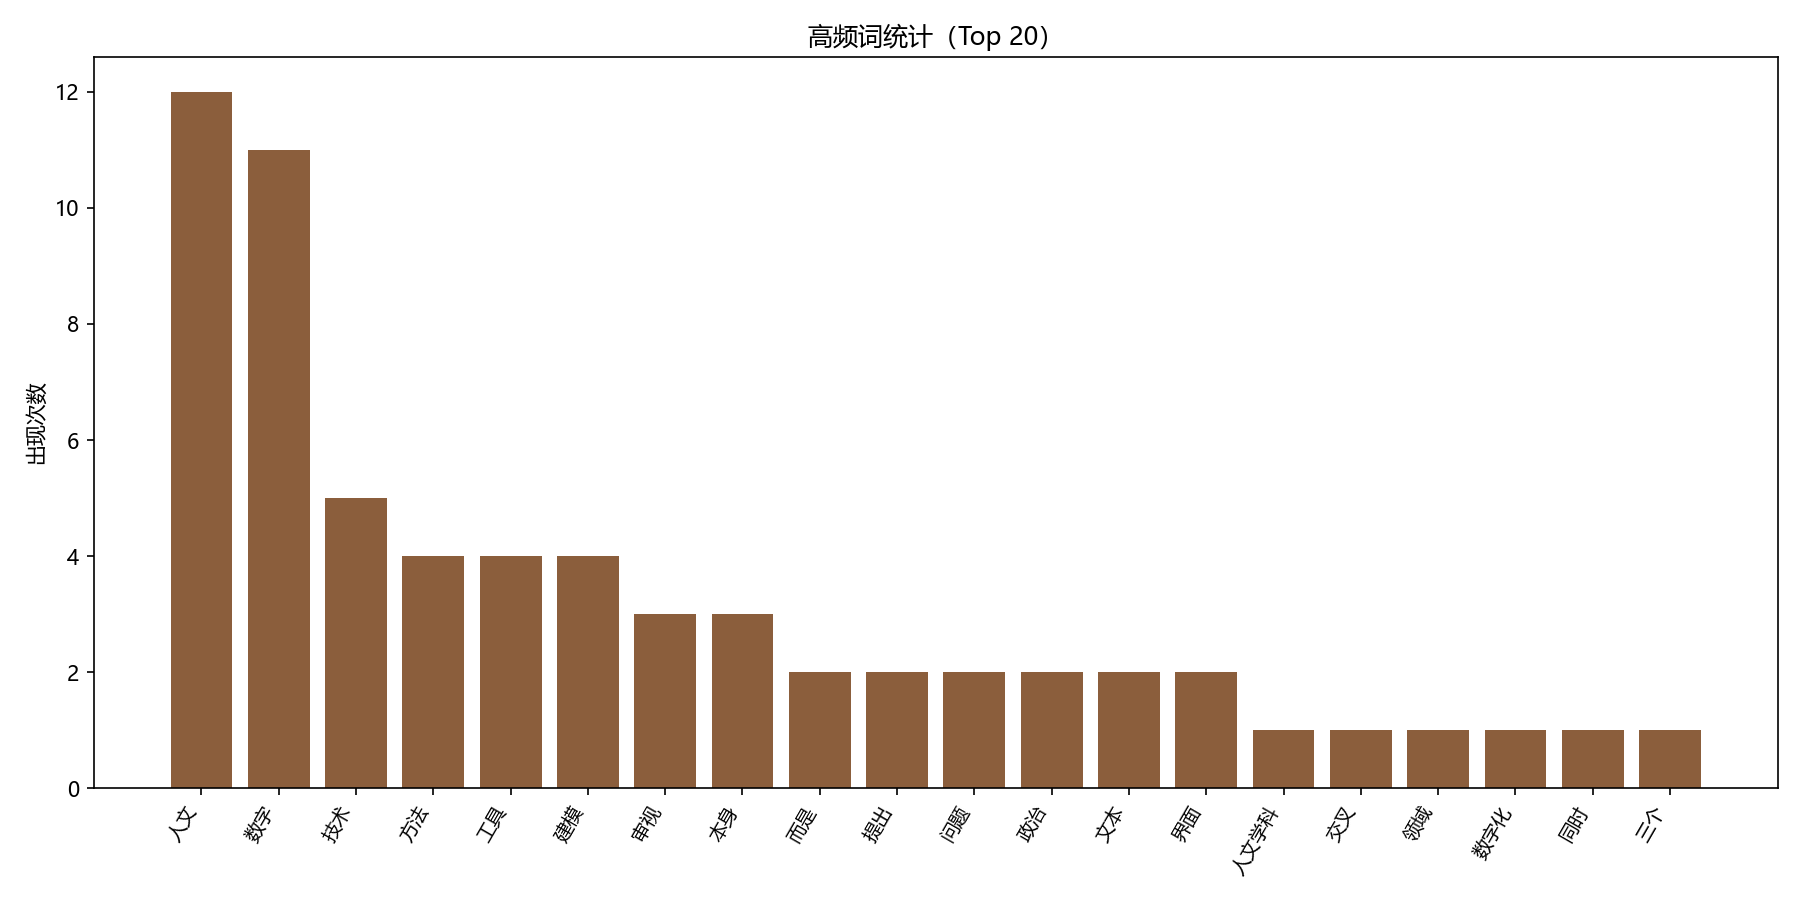
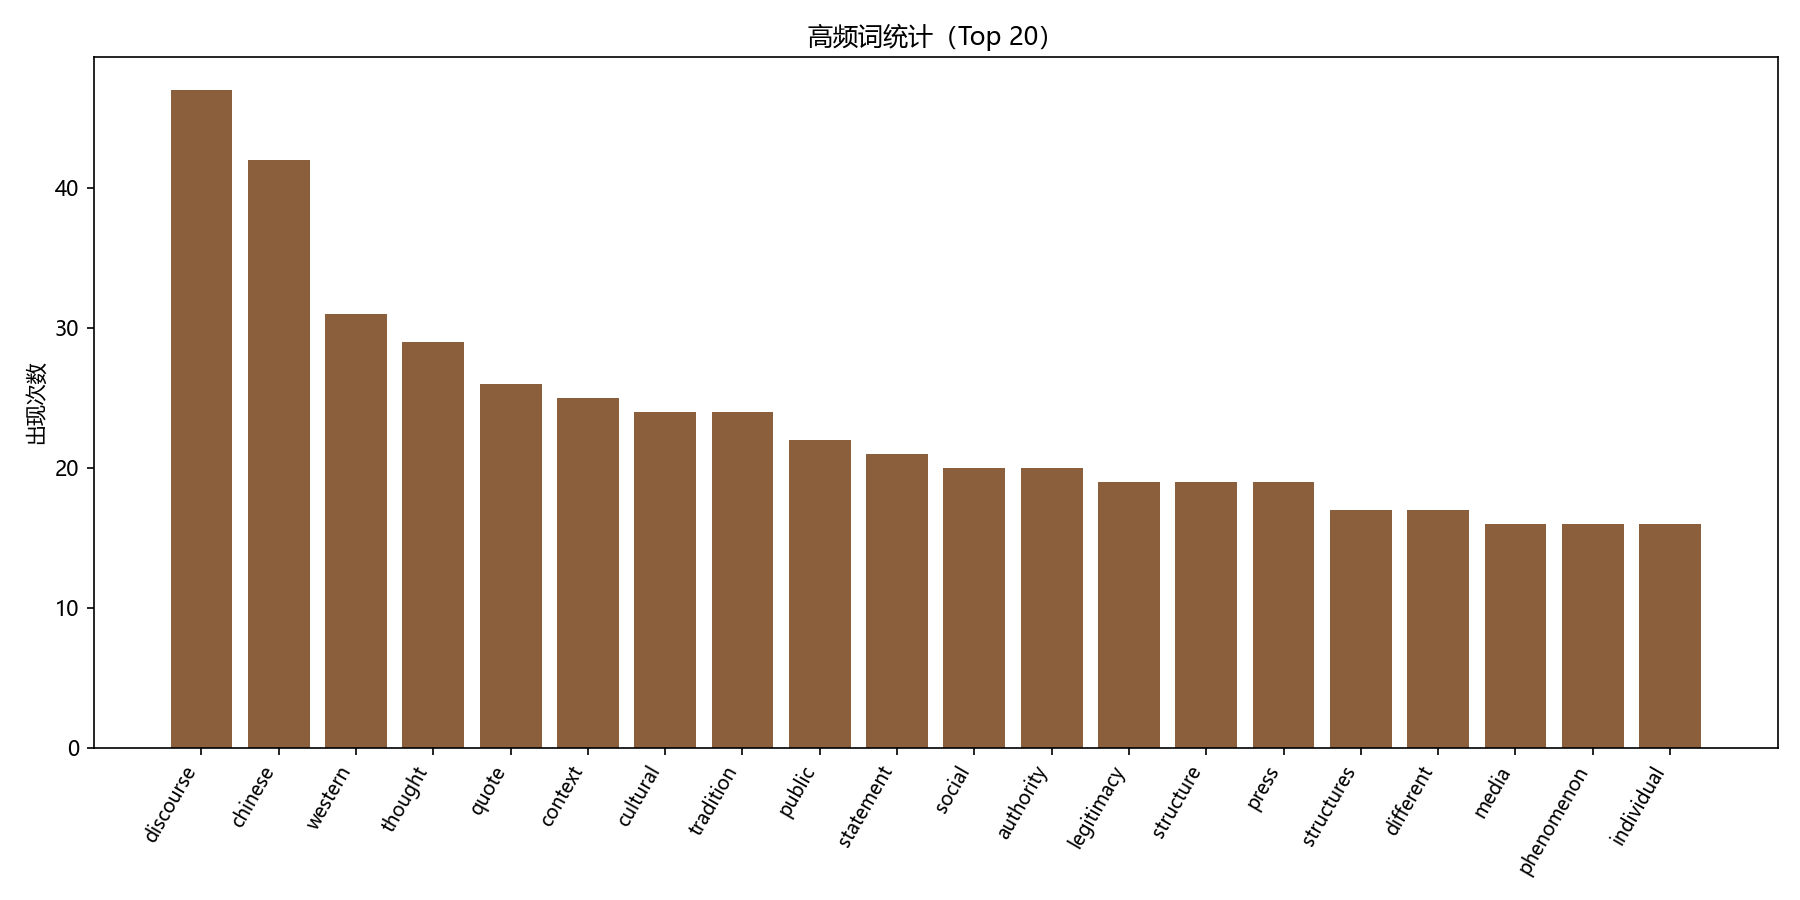
feat: NLP支持英文 + 分析个人论文Sacralize the quoted content

diff --git a/nlp-text-analysis/analyze.py b/nlp-text-analysis/analyze.py
@@ -36,9 +36,14 @@ STOPWORDS = set("""
 的 了 是 在 我 有 和 就 不 人 都 一 一个 上 也 很 到 说 要 去 你 会 着 没有 看 好 自己 这 那 它 我们 他们 她们 什么 怎么 为什么 因为 所以 但是 而且 如果 然后 可以 应该 需要 这个 那个 这些 那些 以及 与 或 等 并 被 把 让 从 对 于 之 中 为 而 及 又 亦 更 还 已经 正在 一直 不是 只是 就是 还是 但是 却 但是 如果 那么 这 个 里 呢 吧 啊 呀 吗
 """.split())
 
-# 英文停用词（常用词）
+# 英文停用词（常见虚词：冠词、介词、连词、代词、助动词等）
 ENGLISH_STOPWORDS = set("""
-the a an and or but if then else of to in on at for with by from is are was were be been being it its this that these those as not no yes
+the a an and or but if then else of to in on at for with by from is are was were be been being
+it its this that these those as not no yes i you he she we they them their his her my your our
+me him us who what which when where why how all any both each few more most other some such
+only own same so than too very can will just should now also do does did have has had may might
+must shall would could into upon within without between among through during about above below
+under over after before while until against because therefore however although though since
 """.split())
 
 # 全部停用词合并
@@ -59,7 +64,7 @@ def tokenize(text):
     words = jieba.lcut(text)
     result = []
     for w in words:
-        w = w.strip()
+        w = w.strip().lower()  # 英文转小写（The 和 the 算同一个词）；中文不受影响
         # 过滤：太短的词、纯标点、纯数字、停用词
         if len(w) < 2:
             continue

diff --git a/nlp-text-analysis/README.md b/nlp-text-analysis/README.md
@@ -6,10 +6,12 @@
 
 这是数字人文技能表里 **"🟡 强烈加分"** 的第一项 —— **NLP（自然语言处理）** 的最小实践：
 
-- 🈶 **中文分词**（用 `jieba`，解决"中文没有空格"的问题）
+- 🈶 **中英文分词**（用 `jieba`，中文自动切分；英文统一转小写并过滤虚词）
 - 🔢 **词频统计**（用 `collections.Counter`）
 - 📈 **数据可视化**（用 `matplotlib` 画柱状图）
 - ☁ **词云生成**（用 `wordcloud`，词越大出现越频繁）
+
+> 📄 已用作者本人的英文论文 *Sacralize the quoted content*（`sacralize.txt`）做过演示，`output/` 里的图表即该文的词频分析结果。
 
 ## 快速开始
 
